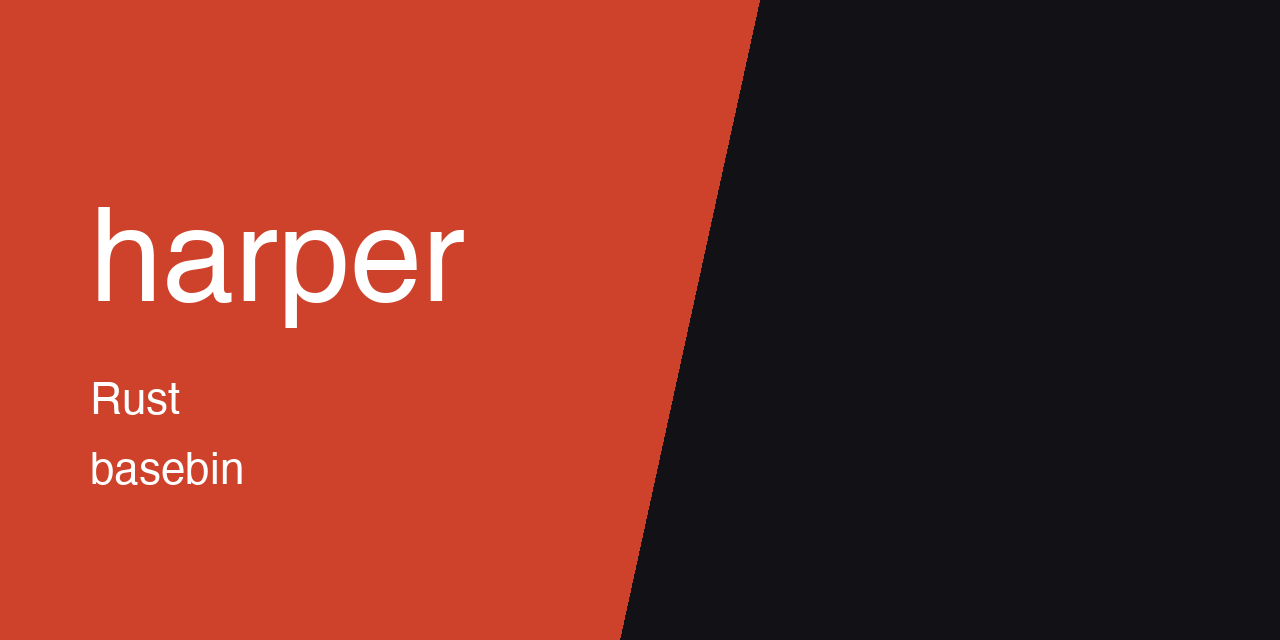
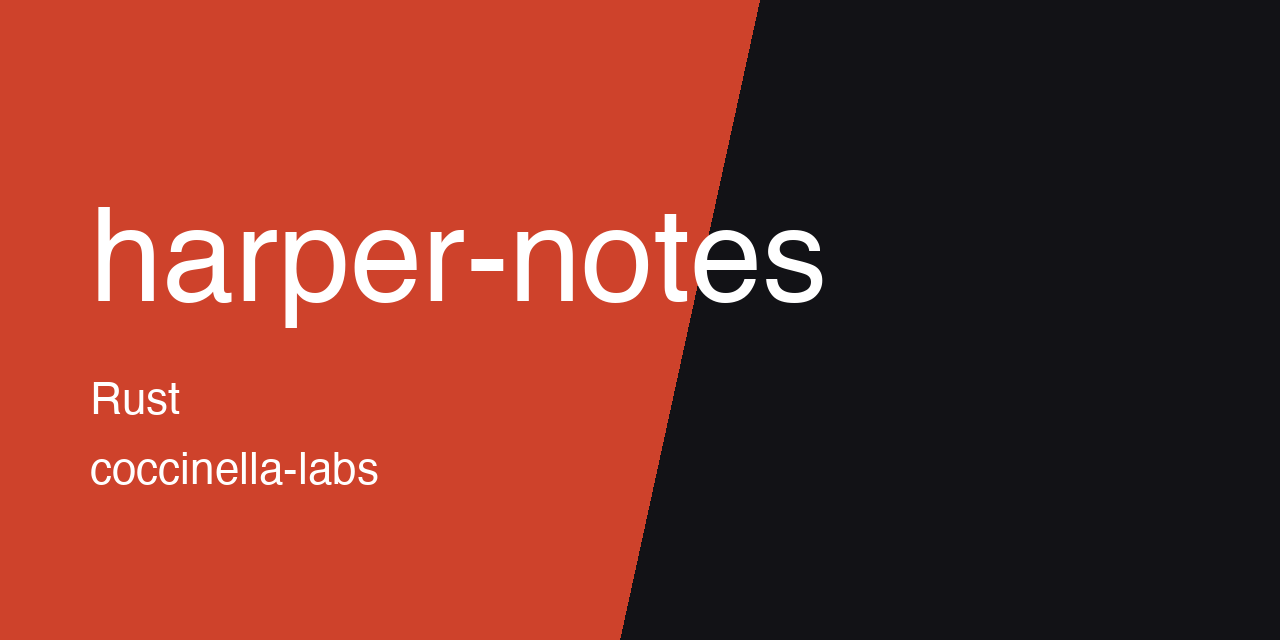
[docs] move thumbnail to coccinella-labs

Changed region(s): [[0.3438, 0.3438, 0.6562, 0.4688], [0.0625, 0.7188, 0.3125, 0.7812]]

diff --git a/README.md b/README.md
@@ -1,4 +1,8 @@
 <p align="center">
+  <img src="https://raw.githubusercontent.com/Coccinella-Labs/harper-notes/main/.github/assets/thumbnail.png" alt="harper-notes" width="100%">
+</p>
+
+<p align="center">
   <img src="https://raw.githubusercontent.com/coccinella-labs/harper-notes/main/.github/assets/thumbnail.png" alt="harper-notes" width="100%">
 </p>
 
